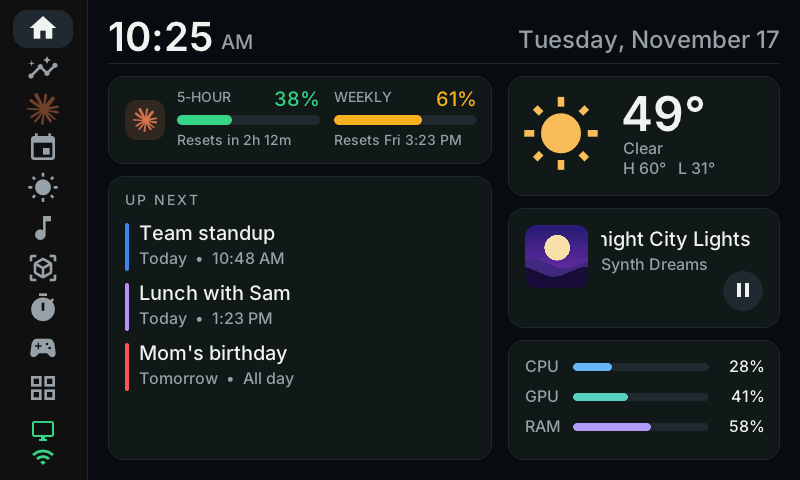
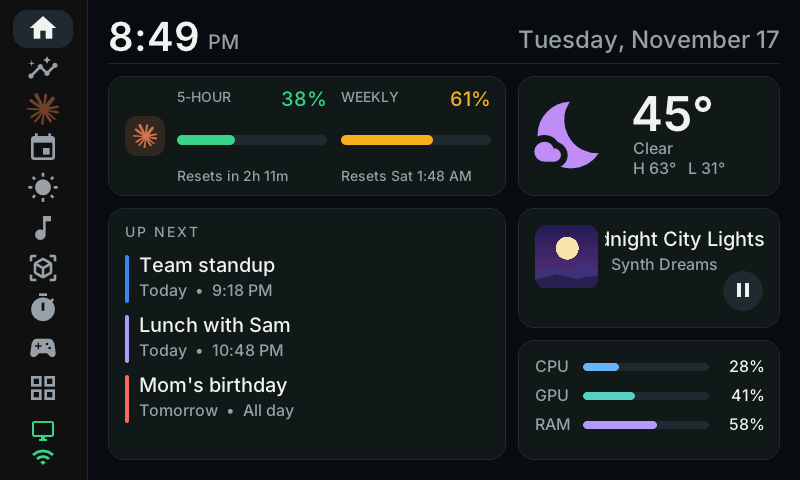
Fill the card height on the AI page and the Home AI widget; new screenshots
Limit cards on the AI page and the Home Claude widget now lay their rows
out from the card's real inner height: caption at the top, the reset line
(and any note under it) at the bottom, the percentage and bar centred in
between, instead of fixed offsets that left an empty band at the bottom.
The Today rows spread over the card's height the same way.

README: new home, AI page and alert screenshots, and the alert text now
says it shows Claude Code's own message.

diff --git a/firmware/main/ui_claude.c b/firmware/main/ui_claude.c
@@ -8,7 +8,6 @@
 
 #define CARD_W ((CONTENT_W - 2 * 12) / 3)
 #define TOP_H (UI_COMPACT ? 150 : 166)
-#define ROW (UI_COMPACT ? 24 : 27)   // Today rows
 #define HIST_CHART_H (CONTENT_H - TOP_H - 12 - 32 - 24 - 32)   // 174 beside a rail, 122 above the dock
 #define CHART_W 400
 
@@ -18,6 +17,7 @@ hub_claude_t g_claude;
 // muted line ("as of ...", or what an estimate means).
 typedef struct {
     lv_obj_t *bar, *pct, *big, *sub, *reset;
+    int inner_h;
 } limit_card_t;
 
 static limit_card_t s_5h, s_7d;
@@ -86,11 +86,29 @@ static void make_limit_card(lv_obj_t *page, limit_card_t *c, int x, const char *
     c->reset = ui_label(card, g_font_16, COL_TEXT, "");
     lv_obj_set_width(c->reset, inner);
     lv_label_set_long_mode(c->reset, LV_LABEL_LONG_DOT);
-    lv_obj_set_pos(c->reset, 0, 78);
     c->sub = ui_label(card, g_font_14, COL_MUTED, "");
     lv_obj_set_width(c->sub, inner);
     lv_label_set_long_mode(c->sub, LV_LABEL_LONG_DOT);
-    lv_obj_set_pos(c->sub, 0, UI_COMPACT ? 100 : 104);
+    lv_obj_update_layout(card);
+    c->inner_h = lv_obj_get_content_height(card);
+}
+
+// Fill the card's height: caption at the top, the reset line (and the muted line
+// under it, when there is one) at the bottom, percentage and bar centred between.
+static void place_limit(limit_card_t *c)
+{
+    const int cap_h = lv_font_get_line_height(g_font_14), pct_h = lv_font_get_line_height(g_font_28);
+    const int reset_h = lv_font_get_line_height(g_font_16), sub_h = lv_font_get_line_height(g_font_14);
+    bool has_sub = lv_label_get_text(c->sub)[0] != 0;
+    int sub_y = c->inner_h - sub_h;
+    int reset_y = has_sub ? sub_y - reset_h : c->inner_h - reset_h;
+    int block = pct_h + 6 + 8;   // percentage, gap, bar
+    int top = cap_h + (reset_y - cap_h - block) / 2;
+    lv_obj_set_y(c->pct, top);
+    lv_obj_set_y(c->big, top);
+    lv_obj_set_y(c->bar, top + pct_h + 6);
+    lv_obj_set_y(c->reset, reset_y);
+    lv_obj_set_y(c->sub, sub_y);
 }
 
 static void show_bar(limit_card_t *c, bool on)
@@ -128,14 +146,18 @@ void claude_create(lv_obj_t *page)
     lv_obj_set_pos(today, 2 * (CARD_W + 12), 0);
     lv_obj_t *t = ui_caption(today, "TODAY");
     lv_obj_set_pos(t, 0, 0);
+    // Rows spread from under the caption to the card's bottom edge.
+    lv_obj_update_layout(today);
+    const int row_h = lv_font_get_line_height(g_font_16), first = lv_font_get_line_height(g_font_14) + 6;
+    const int pitch = (lv_obj_get_content_height(today) - first - row_h) / 3;
     static const char *names[4] = {"Tokens", "Output", "Messages", "Last hour"};
     for (int i = 0; i < 4; i++) {
         lv_obj_t *n = ui_label(today, g_font_16, COL_MUTED, names[i]);
-        lv_obj_set_pos(n, 0, 24 + i * ROW);
+        lv_obj_set_pos(n, 0, first + i * pitch);
         s_today_val[i] = ui_label(today, g_font_16, COL_TEXT, "--");
         lv_obj_set_width(s_today_val[i], 90);
         lv_obj_set_style_text_align(s_today_val[i], LV_TEXT_ALIGN_RIGHT, 0);
-        lv_obj_set_pos(s_today_val[i], CARD_W - 32 - 90, 24 + i * ROW);
+        lv_obj_set_pos(s_today_val[i], CARD_W - 32 - 90, first + i * pitch);
     }
 
     lv_obj_t *hist = ui_card(page);
@@ -252,6 +274,8 @@ static void refresh_limits(void)
         lv_label_set_text(s_7d.reset, c->valid ? "No limit data yet" : "");
         lv_label_set_text(s_7d.sub, c->valid ? buf : "");
     }
+    place_limit(&s_5h);
+    place_limit(&s_7d);
 }
 
 void claude_refresh(void)

diff --git a/firmware/main/ui_home.c b/firmware/main/ui_home.c
@@ -260,6 +260,18 @@ static void layout_claude(int w, int h)
     lv_obj_align(s_cl_badge, LV_ALIGN_LEFT_MID, 0, 0);
     int x0 = tiny ? 0 : badge + (narrow ? 8 : 12);
     int colw = tiny ? w - 32 : (w - 32 - x0 - 14) / 2;
+    // Fill the card's height: caption and value on the first line, the reset line
+    // at the bottom, the bar centred between them.
+    lv_obj_t *card = lv_obj_get_parent(s_cl_cap[0]);
+    int inner_h = h - lv_obj_get_style_pad_top(card, 0) - lv_obj_get_style_pad_bottom(card, 0)
+                - 2 * lv_obj_get_style_border_width(card, 0);
+    int val_h = lv_font_get_line_height(g_font_20), sub_h = lv_font_get_line_height(g_font_14);
+    int sub_y = inner_h - sub_h;
+    int bar_y = (val_h + sub_y) / 2 - 5;
+    if (sub_y < val_h + 14) {   // too short for three lines: keep them packed
+        bar_y = val_h + 4;
+        sub_y = bar_y + 14;
+    }
     for (int i = 0; i < (tiny ? 1 : 2); i++) {
         int x = x0 + i * (colw + 14);
         // Captions shrink with the column so they never run into the percentage.
@@ -269,9 +281,9 @@ static void layout_claude(int w, int h)
         lv_obj_set_pos(s_cl_cap[i], x, 3);
         lv_obj_set_pos(s_cl_val[i], x + colw - 64, 0);
         lv_obj_set_size(s_cl_bar[i], colw, 10);
-        lv_obj_set_pos(s_cl_bar[i], x, 28);
+        lv_obj_set_pos(s_cl_bar[i], x, bar_y);
         lv_obj_set_width(s_cl_sub[i], colw);
-        lv_obj_set_pos(s_cl_sub[i], x, 46);
+        lv_obj_set_pos(s_cl_sub[i], x, sub_y);
     }
 }
 

diff --git a/README.md b/README.md
@@ -467,7 +467,7 @@ If you use OpenAI Codex instead, the AI page shows its usage the same way. The c
 
 ### Waiting alerts
 
-When a Claude Code session needs a permission approval, asks you a question, has a plan ready, or has finished and is waiting for your reply, the board shows it in place of the usage card on Home and over the history chart on the AI page, with the project name, and puts a dot on the AI tab. Amber means it needs a permission; periwinkle means it's waiting for a reply. Tap the open button (**Show on PC** on the AI page) to bring that session's window to the front, or the cross (**Not now**) to dismiss it. A finished session only alerts after it has waited 30 seconds (`idle_alert_seconds` under `[claude]`), so the board doesn't nag while you're still at the PC. Opening the Claude app (or the terminal running the session) counts as seeing a finished session, so it clears from the board by itself, and a session that finishes while that window is in front doesn't alert at all. Questions and permission requests stay until you answer them. If you installed the hooks before, run the install command again to pick up new ones.
+When a Claude Code session needs a permission approval, asks you a question, has a plan ready, or has finished and is waiting for your reply, the board shows it in place of the usage card on Home and over the history chart on the AI page, with the project name and Claude Code's own message (such as "Claude needs your permission to use Bash"), and puts a dot on the AI tab. Amber means it needs a permission; periwinkle means it's waiting for a reply. Tap the open button (**Show on PC** on the AI page) to bring that session's window to the front, or the cross (**Not now**) to dismiss it. A finished session only alerts after it has waited 30 seconds (`idle_alert_seconds` under `[claude]`), so the board doesn't nag while you're still at the PC. Opening the Claude app (or the terminal running the session) counts as seeing a finished session, so it clears from the board by itself, and a session that finishes while that window is in front doesn't alert at all. Questions and permission requests stay until you answer them. If you installed the hooks before, run the install command again to pick up new ones.
 
 ![Waiting alert](docs/screenshots/alert.png)
 
